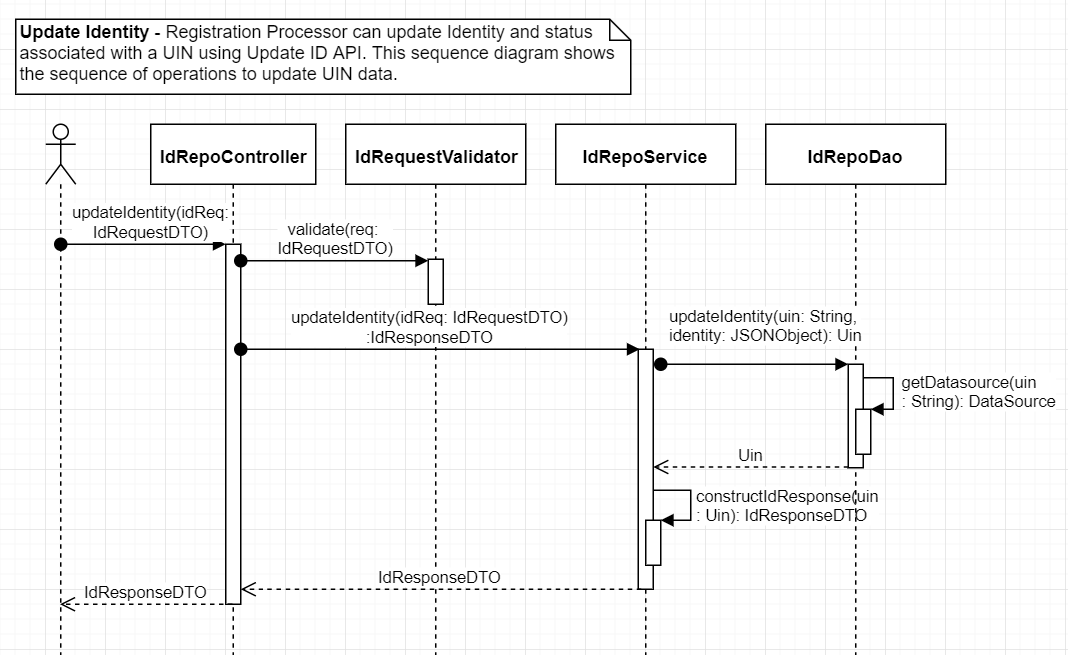
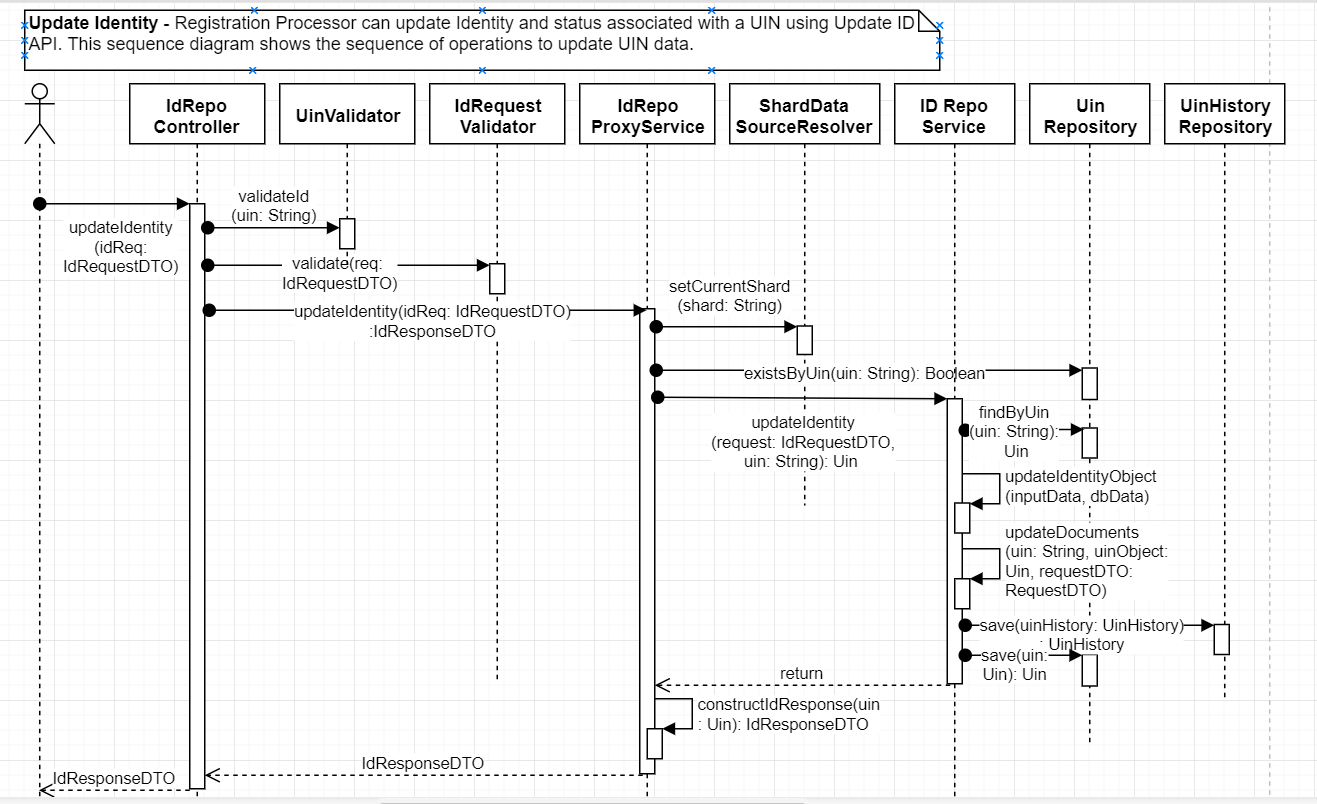
MOS-5706 - Updated ID Repo Update design

diff --git a/docs/design/kernel/kernel-idrepo.md b/docs/design/kernel/kernel-idrepo.md
@@ -25,6 +25,9 @@ Identity Repository service can be used internally by products to create, read a
 #### 1.2.2. Functional Flow Diagram - Retrieve ID - 
 ![Functional Flow Diagram - Retrieve ID](_images/kernel-idrepo-getidentity-fd.PNG) 
 
+#### 1.2.3. Functional Flow Diagram - Update ID - 
+![Functional Flow Diagram - Update ID](_images/kernel-idrepo-updateid-fd.PNG) 
+
 
 ***1.3. Key Non-Functional Requirements -***   
 
@@ -80,10 +83,7 @@ Below sequence diagram for Update Identity service shows sequence of operations 
 ![Update Identity Sequence Diagram](_images/kernel-idrepo-updateid-sd.PNG)   
 
 When UIN status is updated using Update ID API, the status is first validated against the configured status for the country. Once input UIN status matches the one among all the configured UIN status, it is updated in the database. 
-Default configuration of UIN status has REGISTERED, BLOCKED and DEACTIVATED. This can be changed based on countryâ€™s requirements.   
-
-Below sequence diagram shows sequence of operations to update UIN status.   
-![Update Status Sequence Diagram](_images/kernel-idrepo-updatestatus-sd.PNG)       
+Default configuration of UIN status has ACTIVATES, BLOCKED and DEACTIVATED. This can be changed based on country's requirements.       
 
 
 ***2.2.3.	Get Identity***   
